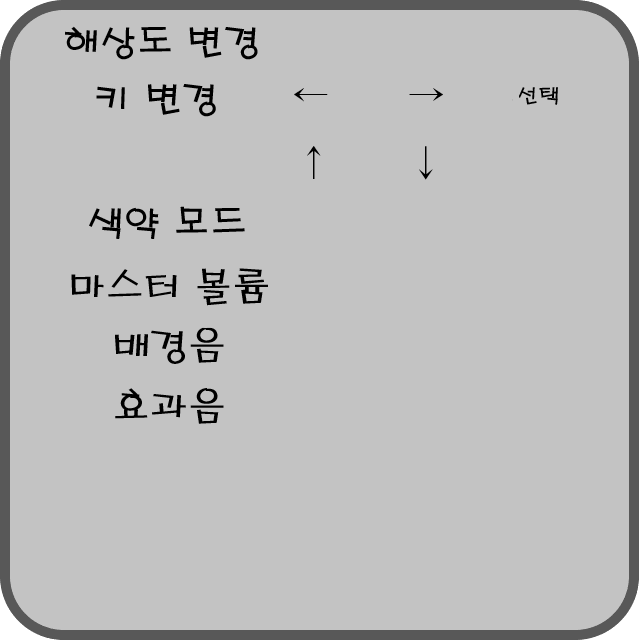
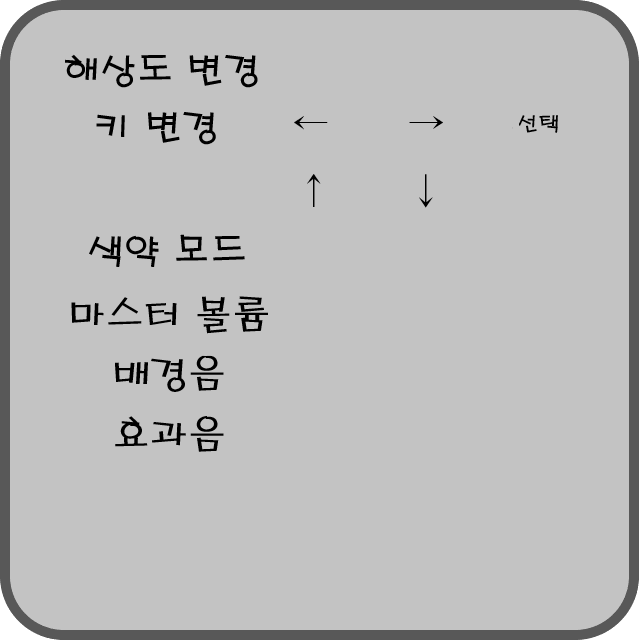
feat: move_collide, update cursor_state

diff --git a/Script/System/option.py b/Script/System/option.py
@@ -11,7 +11,9 @@ class Option():
         self.load_asset(root)
         self.set_default_pos()
         
-        self.key_select_state = 0, 0
+        self.select_state = [0, 0]
+        self.cursor_state = [0, 0]
+        self.on_select = False
         self.reset_on_option_state()
         self.set_option_gui()
         
@@ -43,11 +45,9 @@ class Option():
         self.draw_color_blindness_option(screen)
         self.draw_key_setting_option(screen)
         self.draw_screen_size_option(screen)
-        self.draw_now_select_option(screen)
+        self.draw_cursor(screen)
+        self.draw_select(screen)
         
-    def draw_now_select_option(self,screen):
-        if(self.on_key_setting):
-            screen.blit(self.button_select_img, self.button_select_rect)
             
     def draw_screen_size_option(self, screen):
         screen.blit(self.screen_size_changer_button_img, self.screen_size_changer_button_rect)
@@ -72,12 +72,34 @@ class Option():
         for i in range(len(self.volume_rects)):
             screen.blit(self.volume_img, self.volume_rects[i])
             screen.blit(self.sound_bar_img, self.sound_bar_rects[i])
-        # TODO: volume x 표시, 현재 바 상태만큼 색칠
+        if self.temp_data.master_volume_off:
+            screen.blit(self.volume_x_img, self.volume_x_poses[0])
+        else:
+            pass
+        if self.temp_data.bgm_volume_off:
+            screen.blit(self.volume_x_img, self.volume_x_poses[1])
+        else:
+            pass
+        if self.temp_data.eft_volume_off:
+            screen.blit(self.volume_x_img, self.volume_x_poses[2])
+        else:
+            pass
+        # TODO: pass 자리에 현재 바 상태만큼 색칠
         
     def draw_setting_buttons(self, screen):
         screen.blit(self.save_img, self.save_rect)
-        screen.blit(self.reset_img, self.resetrect)
+        screen.blit(self.reset_img, self.reset_rect)
         screen.blit(self.exit_img, self.exit_rect)
+        
+    def draw_cursor(self, screen):
+        if self.on_select:
+            return
+        screen.blit(self.button_cursor_img, self.button_cursor_rects[self.cursor_state[0]][self.cursor_state[1]])
+    
+    def draw_select(self, screen):
+        if self.on_select:
+            screen.blit(self.button_select_img, self.button_select_rects[self.select_state[0]][self.select_state[1]])
+    
         
     def click_collide_option(self, main, mouse_pos):
         if self.on_screen_changer:
@@ -100,11 +122,15 @@ class Option():
             
     def click_collide_key_setting_option(self, mouse_pos):
         if self.left_key_button_rect.collidepoint(mouse_pos):
-            self.key_select_state = 0
+            self.select_state = 0
         elif self.right_key_button_rect.collidepoint(mouse_pos):
-            self.key_select_state = 1
+            self.select_state = 1
         elif self.enter_key_button_rect.collidepoint(mouse_pos):
-            self.key_select_state = 2
+            self.select_state = 2
+        elif self.up_key_button_rect.collidepoint(mouse_pos):
+            self.select_state = 3
+        elif self.down_key_button_rect.collidepoint(mouse_pos):
+            self.select_state = 4    
         else:
             return True
         
@@ -117,7 +143,50 @@ class Option():
             self.temp_data.color_blindness_mode = self.on_color_blindness_mode = not self.on_color_blindness_mode
             
     def move_collide_option(self, mouse_pos):
-        pass  
+        if self.on_select:
+            return
+        self.move_collide_screen_size_option(mouse_pos)
+        self.move_collide_key_setting_option(mouse_pos)
+        self.move_collide_color_blindness_option(mouse_pos)
+        self.move_collide_volume_option(mouse_pos)
+        self.move_collide_setting_buttons(mouse_pos)
+            
+    def move_collide_screen_size_option(self, mouse_pos):
+        if self.screen_size_changer_button_rect.collidepoint(mouse_pos):
+            self.cursor_state = [0, 0]
+            
+    def move_collide_key_setting_option(self, mouse_pos):
+        if self.left_key_button_rect.collidepoint(mouse_pos):
+            self.cursor_state = [1, 0]
+        elif self.right_key_button_rect.collidepoint(mouse_pos):
+            self.cursor_state = [1, 1]
+        elif self.enter_key_button_rect.collidepoint(mouse_pos):
+            self.cursor_state = [1, 2]
+        elif self.up_key_button_rect.collidepoint(mouse_pos):
+            self.cursor_state = [2, 0]
+        elif self.down_key_button_rect.collidepoint(mouse_pos):
+            self.cursor_state = [2, 1]
+            
+    def move_collide_color_blindness_option(self, mouse_pos):
+        if self.on_color_blindness_mode_rect.collidepoint(mouse_pos):
+            self.cursor_state = [3, 0]
+            
+    def move_collide_volume_option(self, mouse_pos):
+        for i in range(len(self.volume_rects)):
+            if self.volume_rects[i].collidepoint(mouse_pos):
+                self.cursor_state = [i + 4, 0]
+                return
+        for i in range(len(self.sound_bar_rects)):
+            if self.sound_bar_rects[i].collidepoint(mouse_pos):
+                self.cursor_state = [i + 4, 1]
+            
+    def move_collide_setting_buttons(self, mouse_pos):
+        if self.save_rect.collidepoint(mouse_pos):
+            self.cursor_state = [7, 0]
+        elif self.reset_rect.collidepoint(mouse_pos):
+            self.cursor_state = [7, 1]
+        elif self.exit_rect.collidepoint(mouse_pos):
+            self.cursor_state = [7, 2]
             
     def keydown_option(self, key):
         if(key == pygame.K_ESCAPE):
@@ -130,7 +199,7 @@ class Option():
         self.screen_size_changer_button_img = self.screen_size_block_imges[self.temp_data.screen_size_index]
         
     def change_key(self, new_key):
-        match self.key_select_state:
+        match self.select_state:
             case 0:
                 self.temp_data.key_left = new_key
             case 1:
@@ -140,7 +209,7 @@ class Option():
                 
     def apply_key_state_change(self):
         screen_size = self.temp_data.get_screen_size()
-        self.button_select_pos = self.tup_mul(screen_size, self.button_select_default_poses[self.key_select_state])
+        self.button_select_pos = self.tup_mul(screen_size, self.button_select_default_poses[self.select_state])
         self.button_select_rect = self.button_select_img.get_rect(center = self.button_select_pos)
         
     def reset_on_option_state(self):
@@ -184,52 +253,52 @@ class Option():
     
     def set_default_pos(self):
         self.pop_up_default_pos = (0.5, 0.5)
-        self.screen_size_changer_button_default_pos = (0.6, 0.12)
+        self.screen_size_changer_button_default_pos = (0.6, 0.15)
         self.screen_size_block_default_poses = \
             [
-                (0.6, 0.17), 
-                (0.6, 0.22), 
-                (0.6, 0.27), 
-                (0.6, 0.32)
+                (0.6, 0.2), 
+                (0.6, 0.25), 
+                (0.6, 0.3), 
+                (0.6, 0.35)
             ]
-        self.left_key_button_default_pos = (0.535, 0.19)
-        self.right_key_button_default_pos = (0.625, 0.19)
-        self.enter_key_button_default_pos = (0.715, 0.19)
-        self.up_key_button_default_pos = (0.535, 0.28)
-        self.down_key_button_default_pos = (0.625, 0.28)
-        self.on_color_blindness_mode_default_pos = (0.535, 0.36)
+        self.left_key_button_default_pos = (0.535, 0.225)
+        self.right_key_button_default_pos = (0.625, 0.225)
+        self.enter_key_button_default_pos = (0.715, 0.225)
+        self.up_key_button_default_pos = (0.535, 0.315)
+        self.down_key_button_default_pos = (0.625, 0.315)
+        self.on_color_blindness_mode_default_pos = (0.535, 0.395)
         self.volume_default_poses = \
             [
-                (0.49, 0.45),
-                (0.49, 0.54),
-                (0.49, 0.63)
+                (0.49, 0.485),
+                (0.49, 0.575),
+                (0.49, 0.665)
             ]
         self.volume_x_default_poses = \
             [
-                (0.51, 0.45),
-                (0.51, 0.54),
-                (0.51, 0.63)
+                (0.51, 0.485),
+                (0.51, 0.575),
+                (0.51, 0.665)
             ]
         self.sound_bar_default_poses = \
             [
-                (0.62, 0.45),
-                (0.62, 0.54),
-                (0.62, 0.63)
+                (0.62, 0.485),
+                (0.62, 0.575),
+                (0.62, 0.665)
             ]
-        self.save_default_pos = (0.35, 0.86)
-        self.reset_default_pos = (0.5, 0.86)
-        self.exit_default_pos = (0.65, 0.86)
+        self.save_default_pos = (0.35, 0.85)
+        self.reset_default_pos = (0.5, 0.85)
+        self.exit_default_pos = (0.65, 0.85)
         
         self.button_select_default_poses = \
             [
-                [(0.6, 0.12), (0.6, 0.17), (0.6, 0.22), (0.6, 0.27), (0.6, 0.32)],
-                [(0.535, 0.19), (0.625, 0.19), (0.715, 0.19)],
-                [(0.535, 0.28), (0.625, 0.28)],
-                [(0.535, 0.36)],
-                [(0.49, 0.45), (0.49, 0.54), (0.49, 0.63)],
-                [(0.51, 0.45), (0.51, 0.54), (0.51, 0.63)],
-                [(0.62, 0.45), (0.62, 0.54), (0.62, 0.63)],
-                [(0.35, 0.86), (0.5, 0.86), (0.65, 0.86)]
+                [(0.6, 0.1), (0.6, 0.15), (0.6, 0.2), (0.6, 0.25), (0.6, 0.3)],
+                [(0.535, 0.175), (0.625, 0.175), (0.715, 0.175)],
+                [(0.535, 0.265), (0.625, 0.265)],
+                [(0.535, 0.345)],
+                [(0.49, 0.44), (0.62, 0.44)],
+                [(0.49, 0.53), (0.62, 0.53)],
+                [(0.49, 0.62), (0.62, 0.62)],
+                [(0.35, 0.78), (0.5, 0.78), (0.65, 0.78)]
             ]
             
     def set_option_gui(self):
@@ -252,6 +321,9 @@ class Option():
         self.reset_pos = self.tup_mul(screen_size, self.reset_default_pos)
         self.exit_pos = self.tup_mul(screen_size, self.exit_default_pos)
         
+        self.button_select_poses = [[self.tup_mul(screen_size, pos) for pos in poses] for poses in self.button_select_default_poses]
+        self.button_cursor_poses = self.button_select_poses
+        
         self.pop_up_rect = self.pop_up_img.get_rect(center = self.pop_up_pos)
         self.screen_size_block_rects = [self.screen_size_block_imges[i].get_rect(center = self.screen_size_block_poses[i]) for i in range(len(self.screen_size_block_imges))]
         self.screen_size_changer_button_rect = self.screen_size_changer_button_img.get_rect(center = self.screen_size_changer_button_pos)
@@ -265,5 +337,8 @@ class Option():
         self.volume_x_rects = [self.volume_x_img.get_rect(center = pos) for pos in self.volume_x_poses]
         self.sound_bar_rects = [self.sound_bar_img.get_rect(center = pos) for pos in self.sound_bar_poses]
         self.save_rect = self.save_img.get_rect(center = self.save_pos)
-        self.resetrect = self.reset_img.get_rect(center = self.reset_pos)
+        self.reset_rect = self.reset_img.get_rect(center = self.reset_pos)
         self.exit_rect = self.exit_img.get_rect(center = self.exit_pos)
+        
+        self.button_select_rects = [[self.button_select_img.get_rect(center = pos) for pos in poses] for poses in self.button_select_poses]
+        self.button_cursor_rects = [[self.button_cursor_img.get_rect(center = pos) for pos in poses] for poses in self.button_cursor_poses]

diff --git a/Script/GameData/user_data.py b/Script/GameData/user_data.py
@@ -36,8 +36,11 @@ class UserData():
         self.key_down               = pygame.K_DOWN
         self.color_blindness_mode   = False
         self.master_volume          = 1
+        self.master_volume_off      = False
         self.bgm_volume             = 1
+        self.bgm_volume_off         = False
         self.eft_volume             = 1
+        self.eft_volume_off         = False
         
     def get_screen_size(self):
         return self.screen_sizes[self.screen_size_index]
